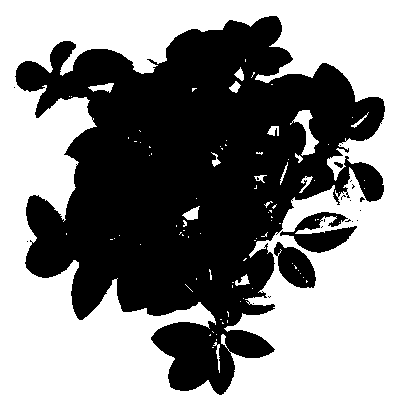
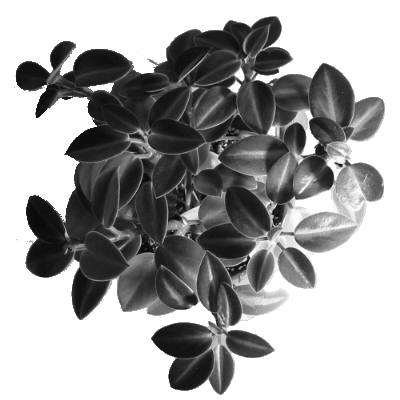
fa le immagini

diff --git a/main.py b/main.py
@@ -7,13 +7,13 @@ import util as u
 import stip as st
 import cv2 as cv2
 
-inPath = 'data/images/figura.png'
-nPoints = 20000
+inPath = 'data/images/coliseum.jpg'
+nPoints = 2000
 threshold = 255
 resolution = 1
-iterations = 10
-rMin = 0.9
-rMax = 1.2
+iterations = 6
+rMin = 0.5
+rMax = 1.5
 
 
 def main():
@@ -26,33 +26,35 @@ def main():
     gray = gr.gray(inPath)
     print('Converted!')
     print('Next step: sampling creation...')
-    points = sp.sampling(nPoints, gray, threshold, np.random.default_rng(seed=int(time.time())))
-    print('Sampling created!')
-    print('Next step: PDF creation...')
-    pdf = pd.makePDF('data/gray_images/gray_' + inPath.split('/')[2])
-    print('PDF created successfully!')
-    step = 1/resolution
-    print('Next step: stippling...')
-    print('Stippling in progress... please be patient')
-    stipples, densities = st.Centroids(points, pdf, gray.shape, step)
-    for i in range(1, iterations):
-       print('Iteration', i)
-       stipples, densities = st.Centroids(stipples, pdf, gray.shape, step)
-    print('Stippling completed!')
-    print('Next step: normalize densities...')
-    print('Densities normalization in progress...')
-    radiuses = u.rescaleFloat64s(densities, rMin, rMax)
-    print('Densities normalized!')
-    print('Next step: drawing stippled image...')
-    stipple = cv2.imread(stippled)
-    print('Drawing stippled image in progress...')
-    for j, s in enumerate(stipples):
-        try:
-            stipple = cv2.circle(stipple, (np.uint64(s[1]), np.uint64(s[0])), int(radiuses[j]), (0, 0, 0), -1)
-        except:
-            pass
-    cv2.imwrite(stippled, stipple)
-    print('Stippled image drawn!')
+    for x in range(1, threshold,10):
+        print("Threshold:", x)
+        points = sp.sampling(nPoints, gray, x, np.random.default_rng(seed=int(time.time())))
+        print('Sampling created!')
+        print('Next step: PDF creation...')
+        pdf = pd.makePDF('data/gray_images/gray_' + inPath.split('/')[2])
+        print('PDF created successfully!')
+        step = 1/resolution
+        print('Next step: stippling...')
+        print('Stippling in progress... please be patient')
+        stipples, densities = st.Centroids(points, pdf, gray.shape, step)
+        for i in range(1, iterations):
+            print('Iteration', i)
+            stipples, densities = st.Centroids(stipples, pdf, gray.shape, step)
+        print('Stippling completed!')
+        print('Next step: normalize densities...')
+        print('Densities normalization in progress...')
+        radiuses = u.rescaleFloat64s(densities, rMin, rMax)
+        print('Densities normalized!')
+        print('Next step: drawing stippled image...')
+        stipple = cv2.imread(stippled)
+        print('Drawing stippled image in progress...')
+        for j, s in enumerate(stipples):
+            try:
+                stipple = cv2.circle(stipple, (np.uint64(s[1]), np.uint64(s[0])), int(radiuses[j]), (0, 0, 0), -1)
+            except:
+                pass
+        cv2.imwrite(stippled, stipple)
+        print('Stippled image drawn!')
     print('MAIN COMPLETED!')
 
 

diff --git a/samp.py b/samp.py
@@ -15,12 +15,15 @@ def sampling(sample, gray, threshold, rng=np.random.default_rng()):
                 hist[intensity].append(Point(np.float64(x),np.float64(y)))
             else:
                 hist[intensity] = [Point(np.float64(x),np.float64(y))]
+
     roulette[0] = 256*len(hist[0])
     for i in range(1, len(roulette)):
         roulette[i] = roulette[i-1] + (256-i)*len(hist[np.uint8(i)])
+
     for i in range(len(pts)):
         ball = rng.integers(0, len(roulette)-1)
         bucket = np.uint8(np.searchsorted(roulette, ball))
+        print(ball)
         p = hist[bucket][rng.integers(0, len(hist[bucket]))]
         p.x += rng.random(dtype=np.float64)
         p.y += rng.random(dtype=np.float64)

diff --git a/gray.py b/gray.py
@@ -6,9 +6,9 @@ nella rispettiva scala di grigi
 def gray(path):
     img = cv.imread(path)
     gray = cv.cvtColor(img, cv.COLOR_BGR2GRAY)
-    (_,BnW_image) = cv.threshold(gray, 190,255, cv.THRESH_BINARY)
+    #(_,BnW_image) = cv.threshold(gray, 190,255, cv.THRESH_BINARY)
     img_name = path.split('/')[2].split('.')[0]
     ext = path.split('/')[2].split('.')[1]
-    cv.imwrite('data/gray_images/gray_' + img_name + '.' + ext, BnW_image)
-    return BnW_image
+    cv.imwrite('data/gray_images/gray_' + img_name + '.' + ext, gray)
+    return gray
 
